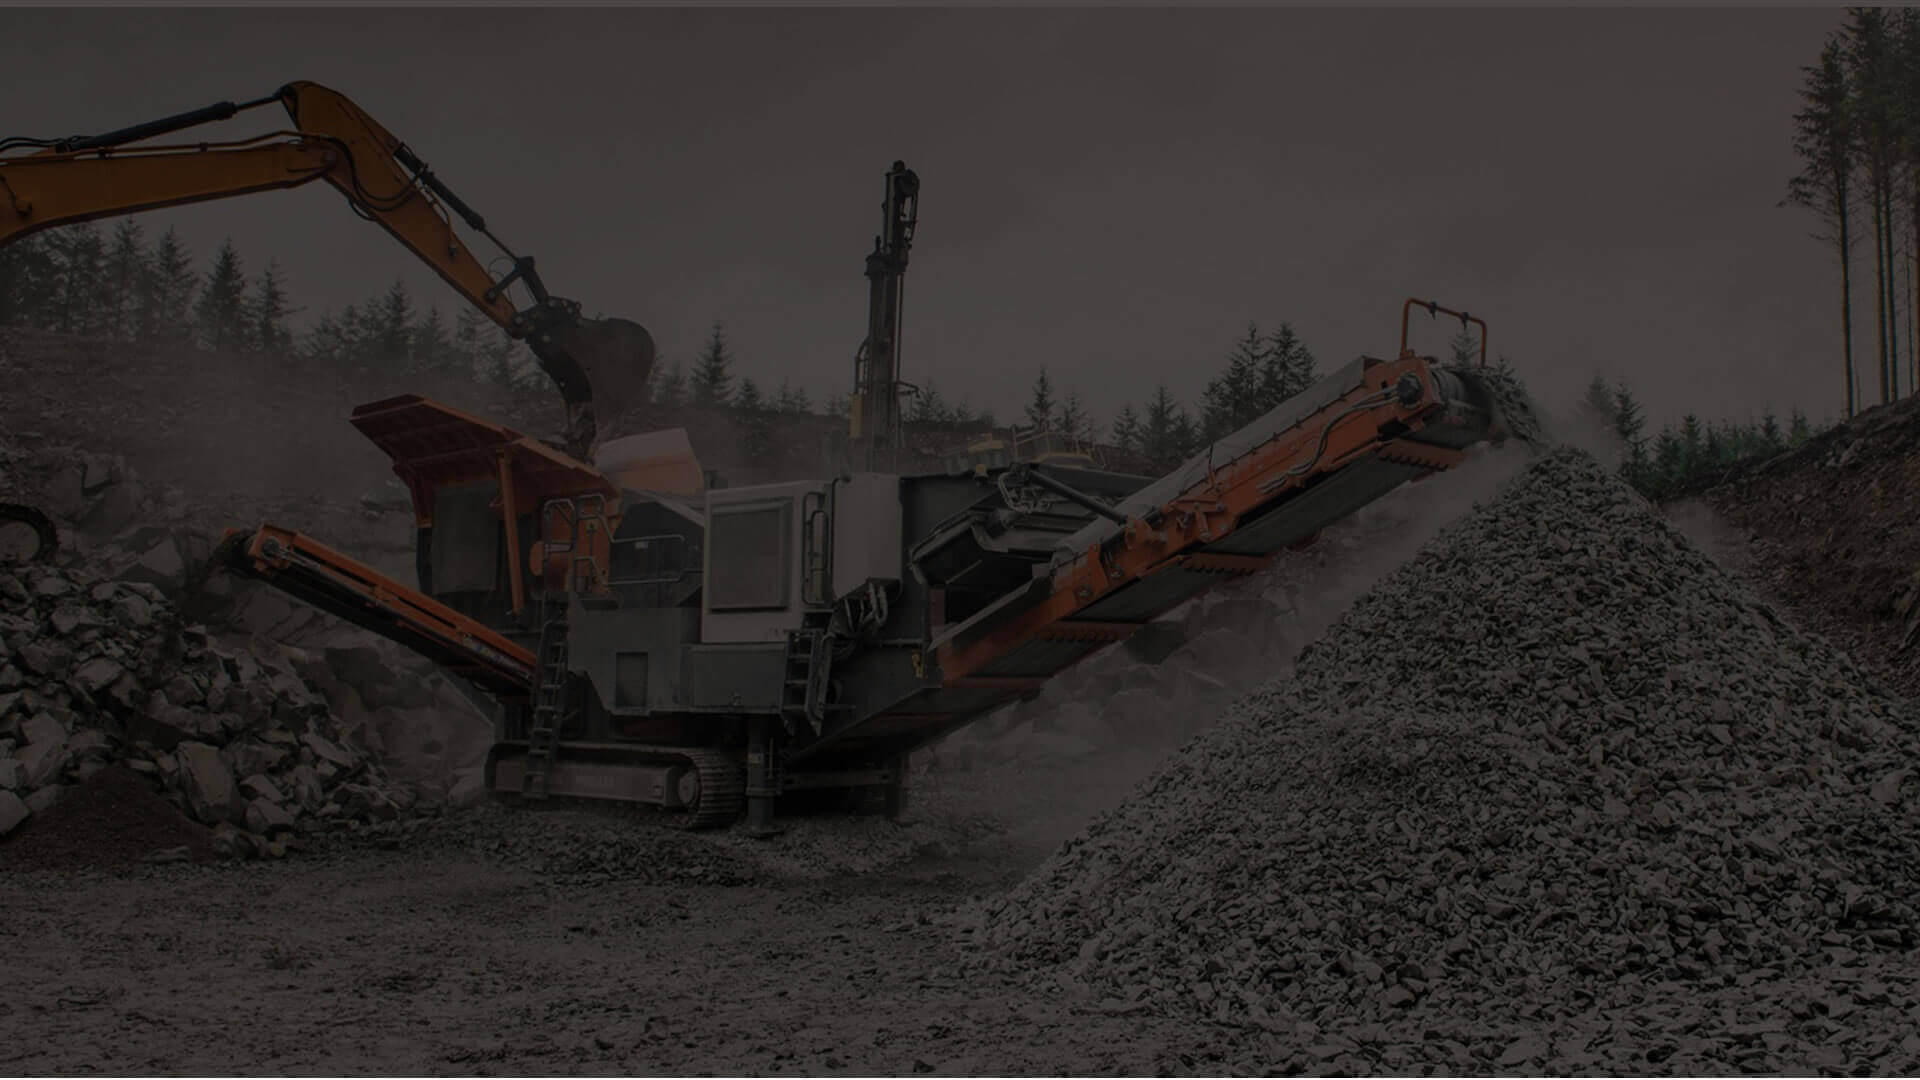
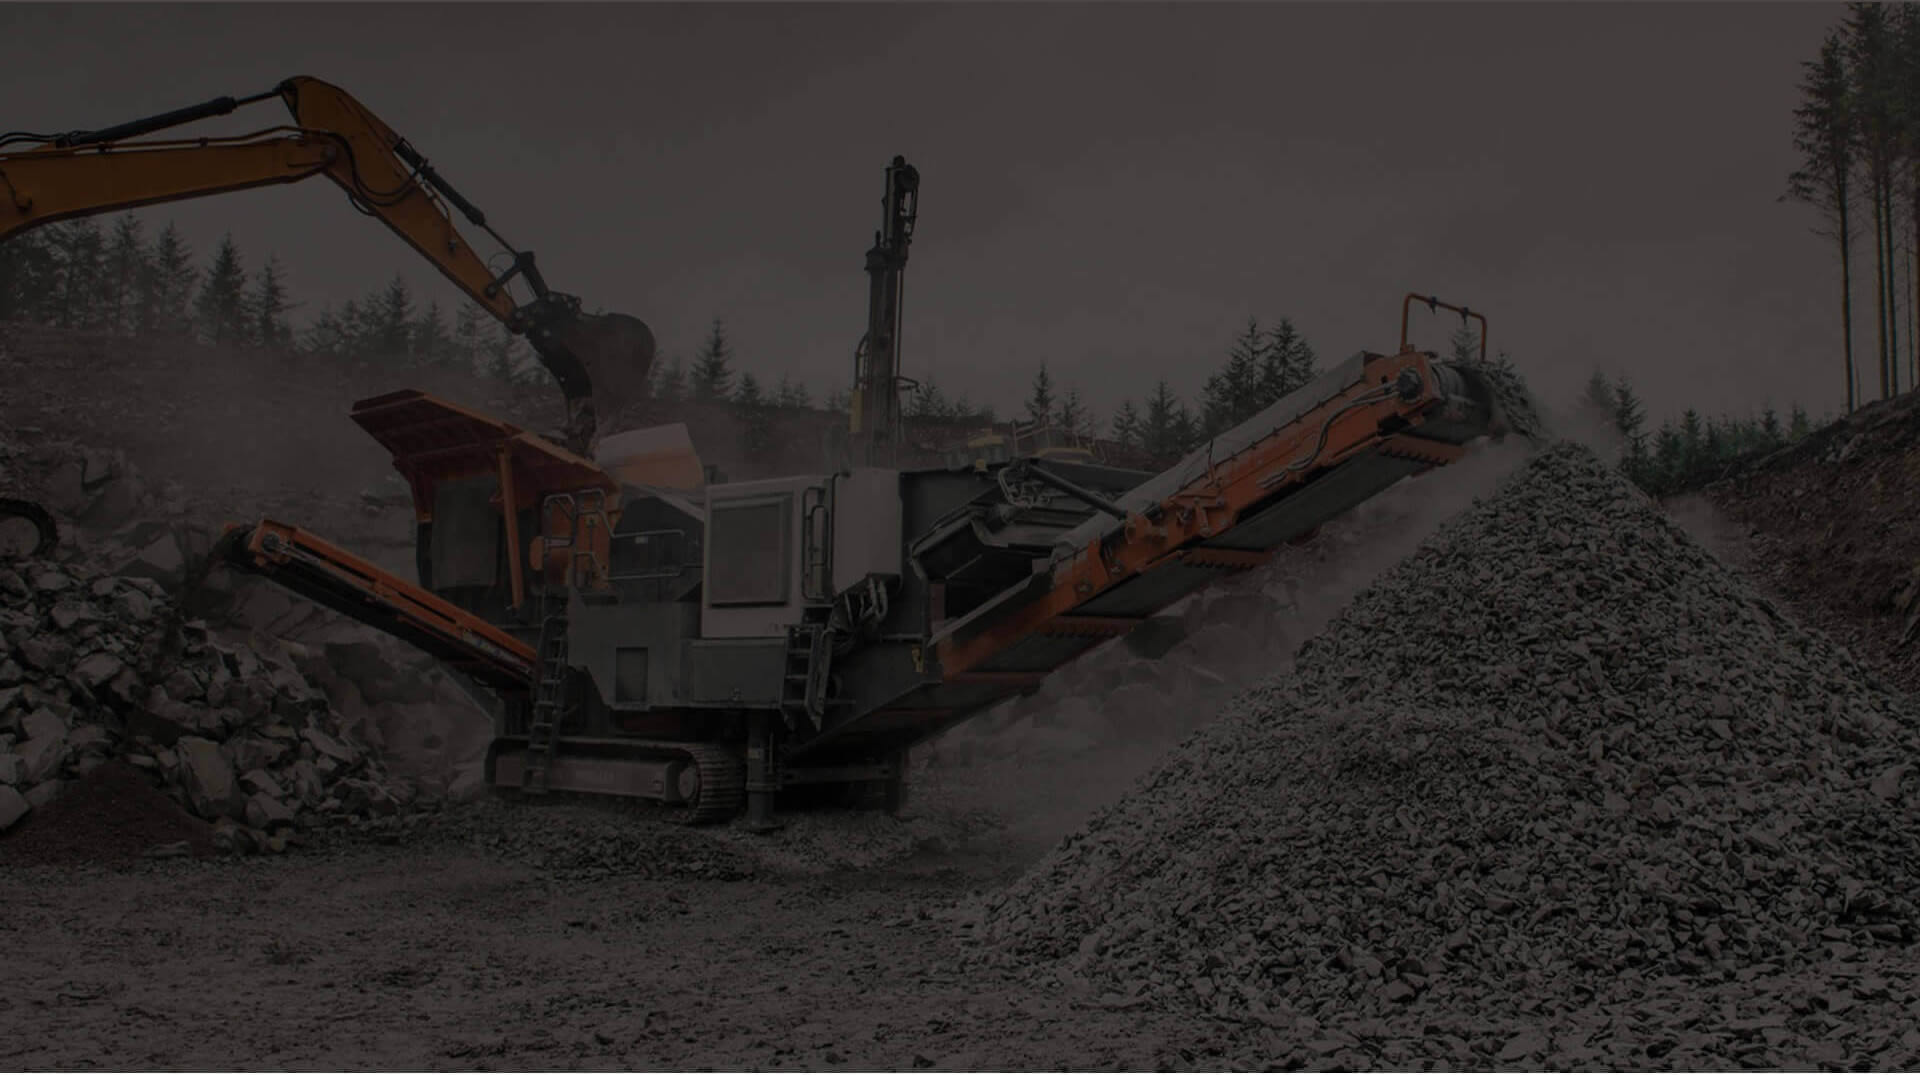
change image names

diff --git a/components/AppFooter.vue b/components/AppFooter.vue
@@ -2,8 +2,13 @@
   <div class="footer-wrapper content-theme --dark py-4">
     <b-container>
       <b-row>
-        <b-col class="footer-logo">
-          <nuxt-link to="/">Volpe Ambiental</nuxt-link>
+        <b-col class="footer-logo" v-lazy-container="{ selector: 'img' }">
+          <nuxt-link to="/">
+            <img
+              :data-src="require('~/assets/img/volpe_logotipo.png')"
+              alt="Volpe Ambiental - logo"
+            />
+          </nuxt-link>
           <p class="mt-1">
             {{ $store.state.address }}<br />
             <span v-if="$store.state.cep">CEP {{ $store.state.cep }} |</span>
@@ -141,8 +146,11 @@ export default {};
       max-width: 395px;
     }
 
-    a {
-      @include nav-brand-link(91px, 35px, 164px, 63px);
+    a > img {
+      width: 91px;
+      @media (min-width: 768px) {
+        width: 164px;
+      }
     }
   }
 

diff --git a/pages/contatos/index.vue b/pages/contatos/index.vue
@@ -29,11 +29,14 @@
           <b-col class="content-center" v-lazy-container="{ selector: 'img' }">
             <img
               v-if="state.showResponsiveImg"
-              :data-srcSet="require('~/assets/img/contatos/truck.png').srcSet"
-              :data-src="require('~/assets/img/contatos/truck.png')"
-              :data-loading="
-                require('~/assets/img/contatos/truck.png').placeholder
+              :data-srcSet="
+                require('~/assets/img/contatos/caminhao.png').srcSet
               "
+              :data-src="require('~/assets/img/contatos/caminhao.png')"
+              :data-loading="
+                require('~/assets/img/contatos/caminhao.png').placeholder
+              "
+              alt="caminhão"
             />
           </b-col>
         </b-row>

diff --git a/components/PageHero.vue b/components/PageHero.vue
@@ -26,7 +26,7 @@
       v-lazy-container="{ selector: 'img' }"
     >
       <client-only>
-        <parallax :speed-factor="0.5">
+        <parallax :speed-factor="0.5" breakpoint="(min-width:300px)">
           <img
             :data-src="heroImage"
             :data-srcSet="heroImageSizesSet"

diff --git a/pages/quemsomos/_keyword/index.vue b/pages/quemsomos/_keyword/index.vue
@@ -46,6 +46,7 @@
               :data-loading="
                 require('~/assets/img/quemsomos/capacete.png').placeholder
               "
+              alt="capacete"
             />
           </b-col>
         </b-row>

diff --git a/pages/index.vue b/pages/index.vue
@@ -20,6 +20,7 @@
               :data-loading="
                 require('~/assets/img/index/cacamba.png').placeholder
               "
+              alt="Caçamba"
             />
           </b-col>
         </b-row>
